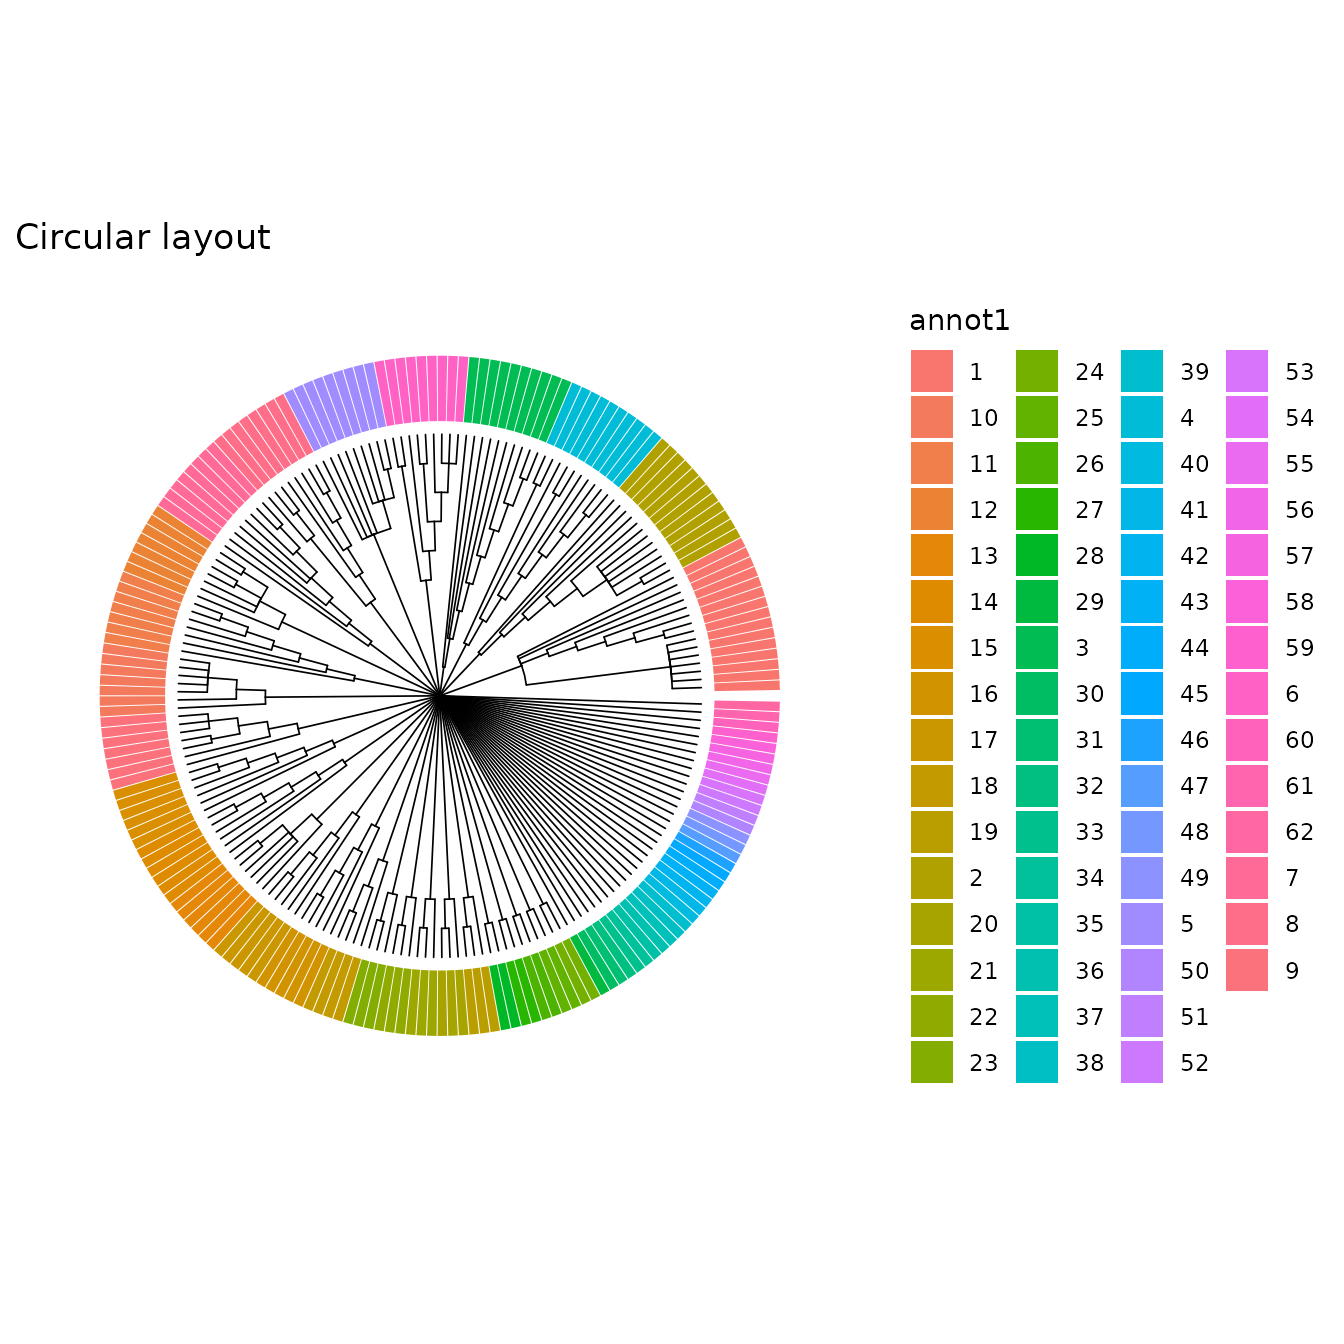
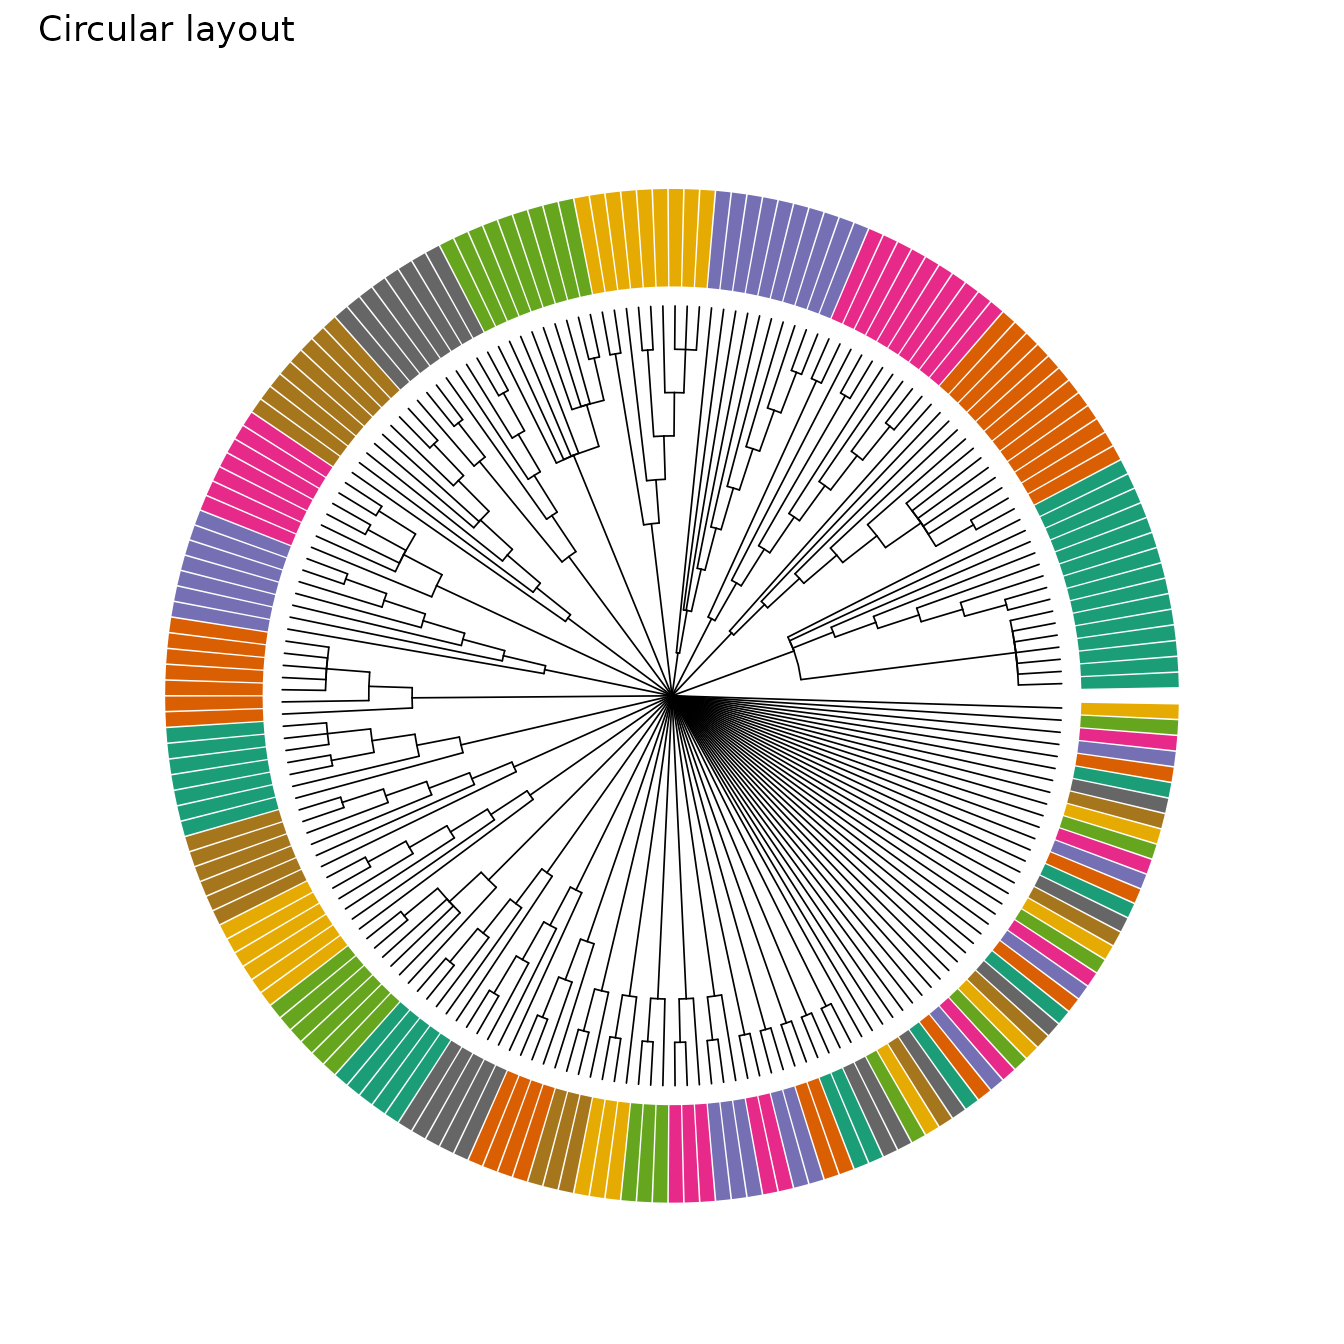
Deploying to gh-pages from @ teng-gao/mitodrift@4e16bac19f2bd6dbf69b9eb01faa38ed83c00a2c 🚀

diff --git a/reference/make_clade_pal.html b/reference/make_clade_pal.html
@@ -1,0 +1,114 @@
+<!DOCTYPE html>
+<!-- Generated by pkgdown: do not edit by hand --><html lang="en"><head><meta http-equiv="Content-Type" content="text/html; charset=UTF-8"><meta charset="utf-8"><meta http-equiv="X-UA-Compatible" content="IE=edge"><meta name="viewport" content="width=device-width, initial-scale=1, shrink-to-fit=no"><title>Build a named Brewer palette with optional cycling behavior — make_clade_pal • mitodrift</title><script src="../deps/jquery-3.6.0/jquery-3.6.0.min.js"></script><meta name="viewport" content="width=device-width, initial-scale=1, shrink-to-fit=no"><link href="../deps/bootstrap-5.3.1/bootstrap.min.css" rel="stylesheet"><script src="../deps/bootstrap-5.3.1/bootstrap.bundle.min.js"></script><link href="../deps/Inter-0.4.10/font.css" rel="stylesheet"><link href="../deps/font-awesome-6.5.2/css/all.min.css" rel="stylesheet"><link href="../deps/font-awesome-6.5.2/css/v4-shims.min.css" rel="stylesheet"><script src="../deps/headroom-0.11.0/headroom.min.js"></script><script src="../deps/headroom-0.11.0/jQuery.headroom.min.js"></script><script src="../deps/bootstrap-toc-1.0.1/bootstrap-toc.min.js"></script><script src="../deps/clipboard.js-2.0.11/clipboard.min.js"></script><script src="../deps/search-1.0.0/autocomplete.jquery.min.js"></script><script src="../deps/search-1.0.0/fuse.min.js"></script><script src="../deps/search-1.0.0/mark.min.js"></script><!-- pkgdown --><script src="../pkgdown.js"></script><meta property="og:title" content="Build a named Brewer palette with optional cycling behavior — make_clade_pal"><meta name="description" content="Creates up to n visually distinct colors by sampling (and, when needed,
+interpolating) from an RColorBrewer palette, optionally reordering each
+block in a zig-zag pattern and progressively lightening subsequent cycles."><meta property="og:description" content="Creates up to n visually distinct colors by sampling (and, when needed,
+interpolating) from an RColorBrewer palette, optionally reordering each
+block in a zig-zag pattern and progressively lightening subsequent cycles."></head><body>
+    <a href="#main" class="visually-hidden-focusable">Skip to contents</a>
+
+
+    <nav class="navbar navbar-expand-lg fixed-top bg-light" data-bs-theme="light" aria-label="Site navigation"><div class="container">
+
+    <a class="navbar-brand me-2" href="../index.html">mitodrift</a>
+
+    <small class="nav-text text-muted me-auto" data-bs-toggle="tooltip" data-bs-placement="bottom" title="">1.1.0</small>
+
+
+    <button class="navbar-toggler" type="button" data-bs-toggle="collapse" data-bs-target="#navbar" aria-controls="navbar" aria-expanded="false" aria-label="Toggle navigation">
+      <span class="navbar-toggler-icon"></span>
+    </button>
+
+    <div id="navbar" class="collapse navbar-collapse ms-3">
+      <ul class="navbar-nav me-auto"><li class="nav-item"><a class="nav-link" href="../index.html"><span class="fa fa-home"></span></a></li>
+<li class="nav-item"><a class="nav-link" href="../articles/index.html">Articles</a></li>
+<li class="active nav-item"><a class="nav-link" href="../reference/index.html">Reference</a></li>
+<li class="nav-item"><a class="nav-link" href="../news/index.html">Changelog</a></li>
+      </ul><ul class="navbar-nav"><li class="nav-item"><a class="external-link nav-link" href="https://github.com/teng-gao/mitodrift"><span class="fa fa-github"></span></a></li>
+      </ul></div>
+
+
+  </div>
+</nav><div class="container template-reference-topic">
+<div class="row">
+  <main id="main" class="col-md-9"><div class="page-header">
+
+      <h1>Build a named Brewer palette with optional cycling behavior</h1>
+      <small class="dont-index">Source: <a href="https://github.com/teng-gao/mitodrift/blob/master/R/vis.R" class="external-link"><code>R/vis.R</code></a></small>
+      <div class="d-none name"><code>make_clade_pal.Rd</code></div>
+    </div>
+
+    <div class="ref-description section level2">
+    <p>Creates up to <code>n</code> visually distinct colors by sampling (and, when needed,
+interpolating) from an RColorBrewer palette, optionally reordering each
+block in a zig-zag pattern and progressively lightening subsequent cycles.</p>
+    </div>
+
+    <div class="section level2">
+    <h2 id="ref-usage">Usage<a class="anchor" aria-label="anchor" href="#ref-usage"></a></h2>
+    <div class="sourceCode"><pre class="sourceCode r"><code><span><span class="fu">make_clade_pal</span><span class="op">(</span></span>
+<span>  <span class="va">n</span>,</span>
+<span>  labels <span class="op">=</span> <span class="cn">NULL</span>,</span>
+<span>  pal <span class="op">=</span> <span class="st">"Set3"</span>,</span>
+<span>  alternating <span class="op">=</span> <span class="cn">FALSE</span>,</span>
+<span>  cycle_len <span class="op">=</span> <span class="fl">0L</span>,</span>
+<span>  cycle_shift <span class="op">=</span> <span class="fl">0.15</span></span>
+<span><span class="op">)</span></span></code></pre></div>
+    </div>
+
+    <div class="section level2">
+    <h2 id="arguments">Arguments<a class="anchor" aria-label="anchor" href="#arguments"></a></h2>
+
+
+<dl><dt id="arg-n">n<a class="anchor" aria-label="anchor" href="#arg-n"></a></dt>
+<dd><p>Integer number of colors to generate.</p></dd>
+
+
+<dt id="arg-labels">labels<a class="anchor" aria-label="anchor" href="#arg-labels"></a></dt>
+<dd><p>Optional character vector of names to assign to the colors. If
+<code>NULL</code>, sequential integers are used.</p></dd>
+
+
+<dt id="arg-pal">pal<a class="anchor" aria-label="anchor" href="#arg-pal"></a></dt>
+<dd><p>RColorBrewer palette name provided to <code><a href="https://rdrr.io/pkg/RColorBrewer/man/ColorBrewer.html" class="external-link">RColorBrewer::brewer.pal</a></code>.</p></dd>
+
+
+<dt id="arg-alternating">alternating<a class="anchor" aria-label="anchor" href="#arg-alternating"></a></dt>
+<dd><p>Logical; when <code>TRUE</code>, reorders each chunk via a
+zig-zag pattern to maximize separation of adjacent hues.</p></dd>
+
+
+<dt id="arg-cycle-len">cycle_len<a class="anchor" aria-label="anchor" href="#arg-cycle-len"></a></dt>
+<dd><p>Positive integer forcing palette generation in repeating
+chunks of this size; <code>0</code> (default) disables chunking.</p></dd>
+
+
+<dt id="arg-cycle-shift">cycle_shift<a class="anchor" aria-label="anchor" href="#arg-cycle-shift"></a></dt>
+<dd><p>Scalar in <code>[0, 1]</code> controlling how strongly later chunks
+blend toward white to maintain distinguishability.</p></dd>
+
+</dl></div>
+    <div class="section level2">
+    <h2 id="value">Value<a class="anchor" aria-label="anchor" href="#value"></a></h2>
+    <p>Named character vector of hex colors.</p>
+    </div>
+
+  </main><aside class="col-md-3"><nav id="toc" aria-label="Table of contents"><h2>On this page</h2>
+    </nav></aside></div>
+
+
+    <footer><div class="pkgdown-footer-left">
+  <p>Developed by Teng Gao.</p>
+</div>
+
+<div class="pkgdown-footer-right">
+  <p>Site built with <a href="https://pkgdown.r-lib.org/" class="external-link">pkgdown</a> 2.2.0.</p>
+</div>
+
+    </footer></div>
+
+
+
+
+
+  </body></html>
+

diff --git a/articles/analysis-workflow.html b/articles/analysis-workflow.html
@@ -113,6 +113,7 @@ colours internal nodes by their confidence score.</p>
 <span>  <span class="va">pL1000_tree_annot</span>,</span>
 <span>  <span class="va">pL1000_mut_dat</span>,</span>
 <span>  node_conf <span class="op">=</span> <span class="cn">TRUE</span>,</span>
+<span>  dot_size <span class="op">=</span> <span class="fl">2</span>,</span>
 <span>  branch_length <span class="op">=</span> <span class="cn">FALSE</span>,</span>
 <span>  title <span class="op">=</span> <span class="st">"Full annotated tree"</span></span>
 <span><span class="op">)</span></span></code></pre></div>
@@ -127,8 +128,12 @@ This helps identify a threshold that balances precision (are the clades
 real?) and recall (are we keeping enough structure?).</p>
 <div class="sourceCode" id="cb5"><pre class="downlit sourceCode r">
 <code class="sourceCode R"><span><span class="va">pr_df</span> <span class="op">&lt;-</span> <span class="fu"><a href="../reference/compute_variant_pr_curve.html">compute_variant_pr_curve</a></span><span class="op">(</span><span class="va">pL1000_tree_annot</span>, <span class="va">pL1000_mut_dat</span><span class="op">)</span></span>
-<span><span class="fu"><a href="../reference/plot_prec_recall_vs_conf.html">plot_prec_recall_vs_conf</a></span><span class="op">(</span><span class="va">pr_df</span>, cutoff <span class="op">=</span> <span class="fl">0.2</span><span class="op">)</span></span></code></pre></div>
-<p><img src="analysis-workflow_files/figure-html/pr-curve-1.png" class="r-plt" alt="" width="672"></p>
+<span><span class="fu"><a href="../reference/plot_prec_recall_vs_conf.html">plot_prec_recall_vs_conf</a></span><span class="op">(</span></span>
+<span>  <span class="va">pr_df</span>,</span>
+<span>  sample_name <span class="op">=</span> <span class="st">"Variant-based precision recall"</span>,</span>
+<span>  cutoff <span class="op">=</span> <span class="fl">0.2</span></span>
+<span><span class="op">)</span></span></code></pre></div>
+<p><img src="analysis-workflow_files/figure-html/pr-curve-1.png" class="r-plt" alt="" width="65%" style="display: block; margin: auto;"></p>
 </div>
 <div class="section level2">
 <h2 id="trim-tree">Trim tree<a class="anchor" aria-label="anchor" href="#trim-tree"></a>
@@ -144,6 +149,7 @@ splits.</p>
 <span>  <span class="va">tree_trim</span>,</span>
 <span>  <span class="va">pL1000_mut_dat</span>,</span>
 <span>  node_conf <span class="op">=</span> <span class="cn">TRUE</span>,</span>
+<span>  dot_size <span class="op">=</span> <span class="fl">2</span>,</span>
 <span>  branch_length <span class="op">=</span> <span class="cn">FALSE</span>,</span>
 <span>  title <span class="op">=</span> <span class="st">"Trimmed tree (conf &gt;= 0.2)"</span></span>
 <span><span class="op">)</span></span></code></pre></div>
@@ -173,18 +179,27 @@ based on the polytomy structure of the trimmed tree.</p>
 <p>Colour cells by clone assignment on both a rectangular heatmap view
 and a circular layout.</p>
 <div class="sourceCode" id="cb10"><pre class="downlit sourceCode r">
+<code class="sourceCode R"><span><span class="va">clade_order</span> <span class="op">&lt;-</span> <span class="fu"><a href="https://rdrr.io/r/base/unique.html" class="external-link">unique</a></span><span class="op">(</span><span class="va">clone_df</span><span class="op">$</span><span class="va">clade</span><span class="op">)</span></span>
+<span><span class="va">clone_pal</span> <span class="op">&lt;-</span> <span class="fu"><a href="../reference/make_clade_pal.html">make_clade_pal</a></span><span class="op">(</span><span class="fu"><a href="https://rdrr.io/r/base/length.html" class="external-link">length</a></span><span class="op">(</span><span class="va">clade_order</span><span class="op">)</span>, labels <span class="op">=</span> <span class="va">clade_order</span>,</span>
+<span>                            pal <span class="op">=</span> <span class="st">"Dark2"</span>, cycle_len <span class="op">=</span> <span class="fl">8</span>, cycle_shift <span class="op">=</span> <span class="fl">0</span><span class="op">)</span></span></code></pre></div>
+<div class="sourceCode" id="cb11"><pre class="downlit sourceCode r">
 <code class="sourceCode R"><span><span class="fu"><a href="../reference/plot_phylo_heatmap2.html">plot_phylo_heatmap2</a></span><span class="op">(</span></span>
 <span>  <span class="va">tree_trim</span>,</span>
 <span>  <span class="va">pL1000_mut_dat</span>,</span>
 <span>  cell_annot <span class="op">=</span> <span class="va">clone_df</span>,</span>
+<span>  annot_pal <span class="op">=</span> <span class="va">clone_pal</span>,</span>
+<span>  node_conf <span class="op">=</span> <span class="cn">TRUE</span>,</span>
+<span>  dot_size <span class="op">=</span> <span class="fl">2</span>,</span>
 <span>  branch_length <span class="op">=</span> <span class="cn">FALSE</span>,</span>
 <span>  title <span class="op">=</span> <span class="st">"Clones on trimmed tree"</span></span>
 <span><span class="op">)</span></span></code></pre></div>
 <p><img src="analysis-workflow_files/figure-html/clone-heatmap-1.png" class="r-plt" alt="" width="960"></p>
-<div class="sourceCode" id="cb11"><pre class="downlit sourceCode r">
+<div class="sourceCode" id="cb12"><pre class="downlit sourceCode r">
 <code class="sourceCode R"><span><span class="fu"><a href="../reference/plot_phylo_circ.html">plot_phylo_circ</a></span><span class="op">(</span></span>
 <span>  <span class="va">tree_trim</span>,</span>
 <span>  cell_annot <span class="op">=</span> <span class="va">clone_df</span>,</span>
+<span>  annot_pal <span class="op">=</span> <span class="va">clone_pal</span>,</span>
+<span>  annot_legend <span class="op">=</span> <span class="cn">FALSE</span>,</span>
 <span>  title <span class="op">=</span> <span class="st">"Circular layout"</span></span>
 <span><span class="op">)</span></span></code></pre></div>
 <p><img src="analysis-workflow_files/figure-html/clone-circ-1.png" class="r-plt" alt="" width="672"></p>

diff --git a/index.html b/index.html
@@ -216,10 +216,15 @@
 <li>Use <code>--resume TRUE</code> to continue interrupted runs from saved traces</li>
 </ul>
 <hr>
+</div>
+</div>
+</div>
+<div class="section level1">
+<h1 id="analysis-workflow">Analysis workflow<a class="anchor" aria-label="anchor" href="#analysis-workflow"></a>
+</h1>
 <p>For a complete walkthrough, see the <a href="https://teng-gao.github.io/mitodrift/articles/analysis-workflow.html">Analysis Workflow</a> tutorial.</p>
 </div>
-</div>
-</div>
+
   </main><aside class="col-md-3"><div class="links">
 <h2 data-toc-skip>Links</h2>
 <ul class="list-unstyled">

diff --git a/reference/index.html b/reference/index.html
@@ -139,6 +139,13 @@
 
         </dt>
         <dd>Plot a phylogenetic tree with VAF heatmap and annotations</dd>
+
+        <dt>
+
+          <code><a href="make_clade_pal.html">make_clade_pal()</a></code>
+
+        </dt>
+        <dd>Build a named Brewer palette with optional cycling behavior</dd>
       </dl></div><div class="section level2">
       <h2 id="data-utilities">Data utilities<a class="anchor" aria-label="anchor" href="#data-utilities"></a></h2>
 

diff --git a/articles/analysis-workflow.md b/articles/analysis-workflow.md
@@ -51,6 +51,7 @@ plot_phylo_heatmap2(
   pL1000_tree_annot,
   pL1000_mut_dat,
   node_conf = TRUE,
+  dot_size = 2,
   branch_length = FALSE,
   title = "Full annotated tree"
 )
@@ -68,7 +69,11 @@ enough structure?).
 
 ``` r
 pr_df <- compute_variant_pr_curve(pL1000_tree_annot, pL1000_mut_dat)
-plot_prec_recall_vs_conf(pr_df, cutoff = 0.2)
+plot_prec_recall_vs_conf(
+  pr_df,
+  sample_name = "Variant-based precision recall",
+  cutoff = 0.2
+)
 ```
 
 ![](analysis-workflow_files/figure-html/pr-curve-1.png)
@@ -89,6 +94,7 @@ plot_phylo_heatmap2(
   tree_trim,
   pL1000_mut_dat,
   node_conf = TRUE,
+  dot_size = 2,
   branch_length = FALSE,
   title = "Trimmed tree (conf >= 0.2)"
 )
@@ -123,10 +129,19 @@ Colour cells by clone assignment on both a rectangular heatmap view and
 a circular layout.
 
 ``` r
+clade_order <- unique(clone_df$clade)
+clone_pal <- make_clade_pal(length(clade_order), labels = clade_order,
+                            pal = "Dark2", cycle_len = 8, cycle_shift = 0)
+```
+
+``` r
 plot_phylo_heatmap2(
   tree_trim,
   pL1000_mut_dat,
   cell_annot = clone_df,
+  annot_pal = clone_pal,
+  node_conf = TRUE,
+  dot_size = 2,
   branch_length = FALSE,
   title = "Clones on trimmed tree"
 )
@@ -138,6 +153,8 @@ plot_phylo_heatmap2(
 plot_phylo_circ(
   tree_trim,
   cell_annot = clone_df,
+  annot_pal = clone_pal,
+  annot_legend = FALSE,
   title = "Circular layout"
 )
 ```

diff --git a/reference/make_clade_pal.md b/reference/make_clade_pal.md
@@ -1,0 +1,54 @@
+# Build a named Brewer palette with optional cycling behavior
+
+Creates up to `n` visually distinct colors by sampling (and, when
+needed, interpolating) from an RColorBrewer palette, optionally
+reordering each block in a zig-zag pattern and progressively lightening
+subsequent cycles.
+
+## Usage
+
+``` r
+make_clade_pal(
+  n,
+  labels = NULL,
+  pal = "Set3",
+  alternating = FALSE,
+  cycle_len = 0L,
+  cycle_shift = 0.15
+)
+```
+
+## Arguments
+
+- n:
+
+  Integer number of colors to generate.
+
+- labels:
+
+  Optional character vector of names to assign to the colors. If `NULL`,
+  sequential integers are used.
+
+- pal:
+
+  RColorBrewer palette name provided to
+  [`RColorBrewer::brewer.pal`](https://rdrr.io/pkg/RColorBrewer/man/ColorBrewer.html).
+
+- alternating:
+
+  Logical; when `TRUE`, reorders each chunk via a zig-zag pattern to
+  maximize separation of adjacent hues.
+
+- cycle_len:
+
+  Positive integer forcing palette generation in repeating chunks of
+  this size; `0` (default) disables chunking.
+
+- cycle_shift:
+
+  Scalar in `[0, 1]` controlling how strongly later chunks blend toward
+  white to maintain distinguishability.
+
+## Value
+
+Named character vector of hex colors.

diff --git a/reference/index.md b/reference/index.md
@@ -33,6 +33,8 @@
   : Plot Circular Phylogenetic Tree with Annotations
 - [`plot_phylo_heatmap2()`](https://teng-gao.github.io/mitodrift/reference/plot_phylo_heatmap2.md)
   : Plot a phylogenetic tree with VAF heatmap and annotations
+- [`make_clade_pal()`](https://teng-gao.github.io/mitodrift/reference/make_clade_pal.md)
+  : Build a named Brewer palette with optional cycling behavior
 
 ## Data utilities
 

diff --git a/index.md b/index.md
@@ -160,6 +160,8 @@ Full lineage inference pipeline is run with
 
 ------------------------------------------------------------------------
 
+# Analysis workflow
+
 For a complete walkthrough, see the [Analysis
 Workflow](https://teng-gao.github.io/mitodrift/articles/analysis-workflow.html)
 tutorial.
